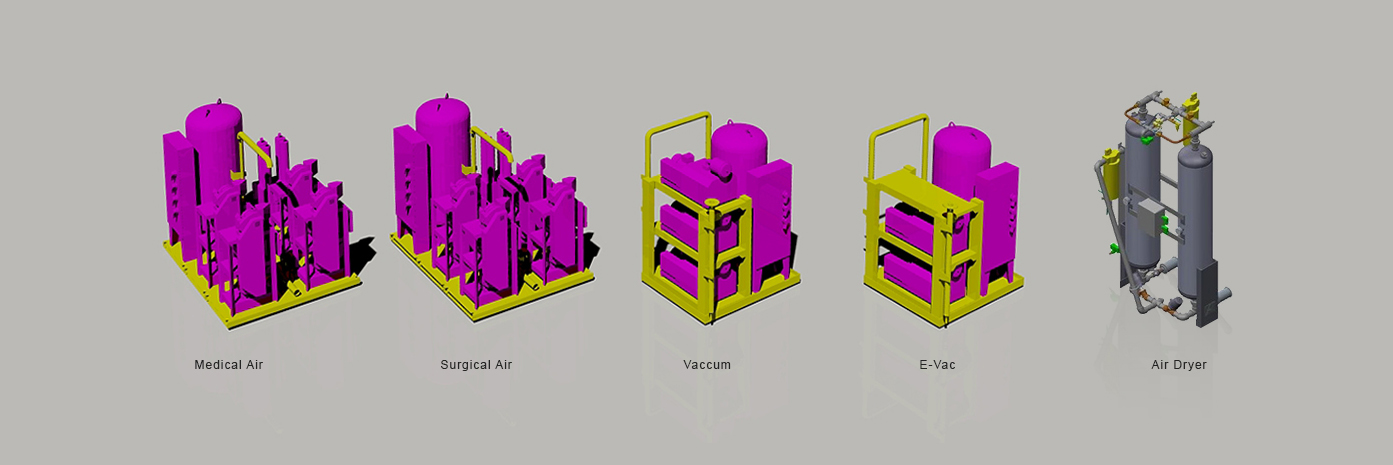
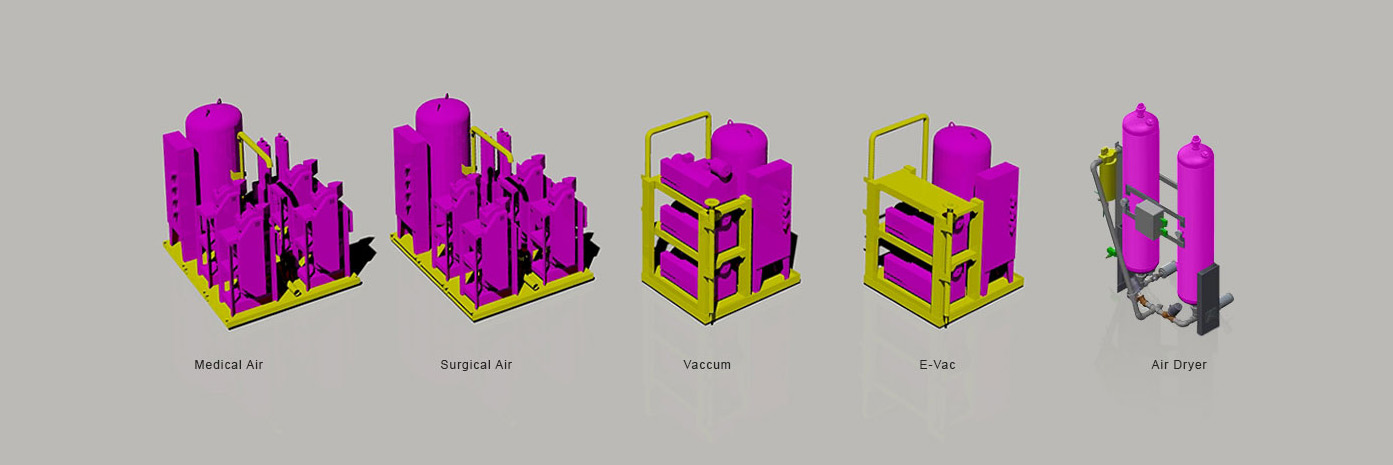
Update New graphic

Changed region(s): [[0.7717, 0.1806, 0.8952, 0.7226]]

diff --git a/index copy.php b/index copy.php
@@ -4,11 +4,6 @@
 <title>IMG SYSTEM</title>
 <?php include('inc_head.php'); ?>
 <style>
-	.clear{
-		width: 100%;
-		display: block;
-		clear: both;
-	}
 	ul{
 		margin: 0;
 		padding: 0;
@@ -30,24 +25,6 @@
 	}
 	ul li a:hover{
 		opacity: 0.5;
-		-moz-transition: all 0.1s ease-in;
-		-webkit-transition: all 0.1s ease-in;
-		-o-transition: all 0.1s ease-in;
-		transition: all 0.1s ease-in;
-	}
-	.systembanner{
-		margin-top: 30px;	
-	}
-	.systembanner img{
-		width: 100%;
-		height: auto;
-		-moz-transition: all 0.1s ease-in;
-		-webkit-transition: all 0.1s ease-in;
-		-o-transition: all 0.1s ease-in;
-		transition: all 0.1s ease-in;
-	}
-	.systembanner a:hover img{
-		opacity: 0.6;
 		-moz-transition: all 0.1s ease-in;
 		-webkit-transition: all 0.1s ease-in;
 		-o-transition: all 0.1s ease-in;
@@ -91,20 +68,7 @@
 	</div>
 </header>
 <div class="container">
-	<div class="clear" style="margin-top: 20%;"></div>
 	<div class="row">
-		<div class="col-xs-4 col-xs-offset-2 systembanner">
-			<a href="signin.php">
-				<img src="images/systembanner/IEMS-Banner2.jpg" alt="IEMS-Banner2">
-			</a>
-		</div>
-		<div class="col-xs-4 systembanner">
-			<a href="signin.php">
-				<img src="images/systembanner/IMGS-Banner2.jpg" alt="IMGS-Banner2">
-			</a>
-		</div>
-		
-		<!--
 		<div class="col-sm-8 col-sm-offset-2" style="text-align: center;">
 			<ul>
 				<li>
@@ -119,7 +83,6 @@
 				</li>
 			</ul>
 		</div>
-		-->
 	</div>
 </div>
 </body>

diff --git a/inc_report_iems.php b/inc_report_iems.php
@@ -7,7 +7,7 @@
 	<div class="report-frame">
 		<div class="report-scroll">
 			<div class="report-title">
-				<h1>Equipment Record List</h1>
+				<h1>บันทึกการปฎิบัติการงานบริการการแพทย์ฉุกเฉินระดับสูง</h1>
 			</div>
 			<div class="report-body">
 				<div class="report-ref">

diff --git a/registor.php b/registor.php
@@ -81,6 +81,7 @@
 							    </div>
 							</td>
 						</tr>
+						<!--
 						<tr>
 							<td>
 								<div class="input-group">
@@ -105,6 +106,7 @@
 							    </div>
 							</td>
 						</tr>
+						-->
 						<tr>
 							<td><button class="register">Register</button> <button class="cancel">Cancel</button></td>
 						</tr>
